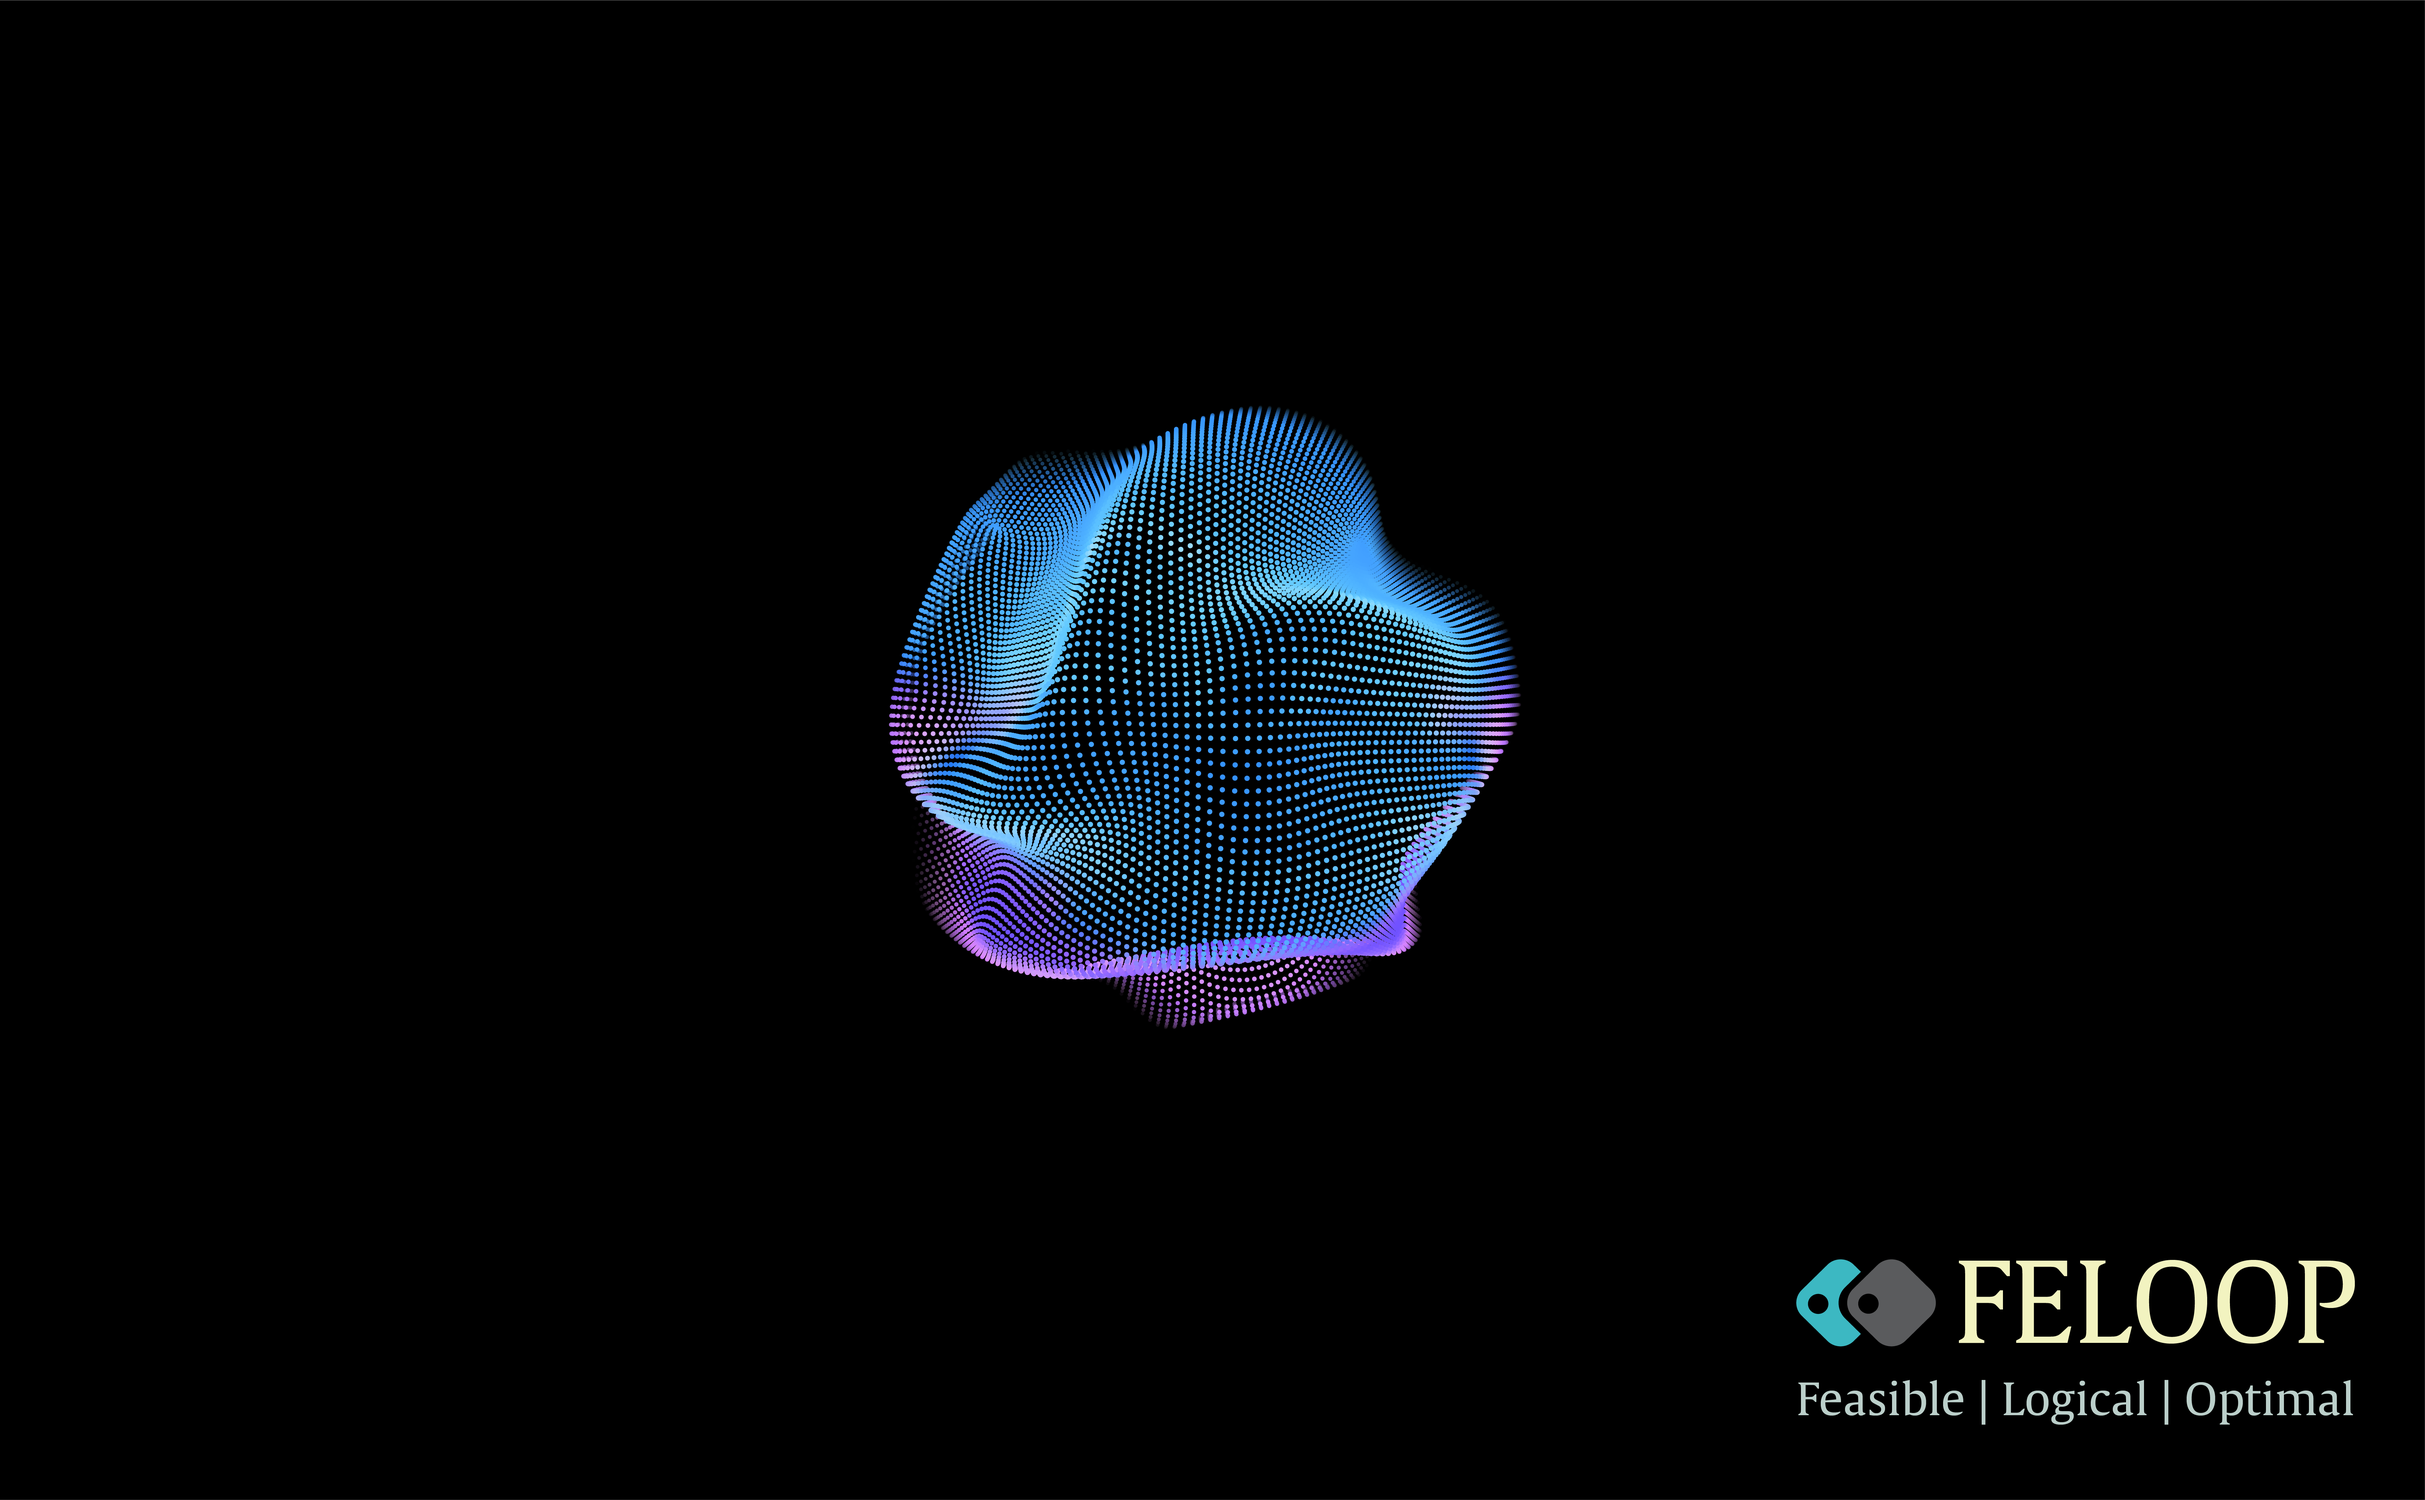
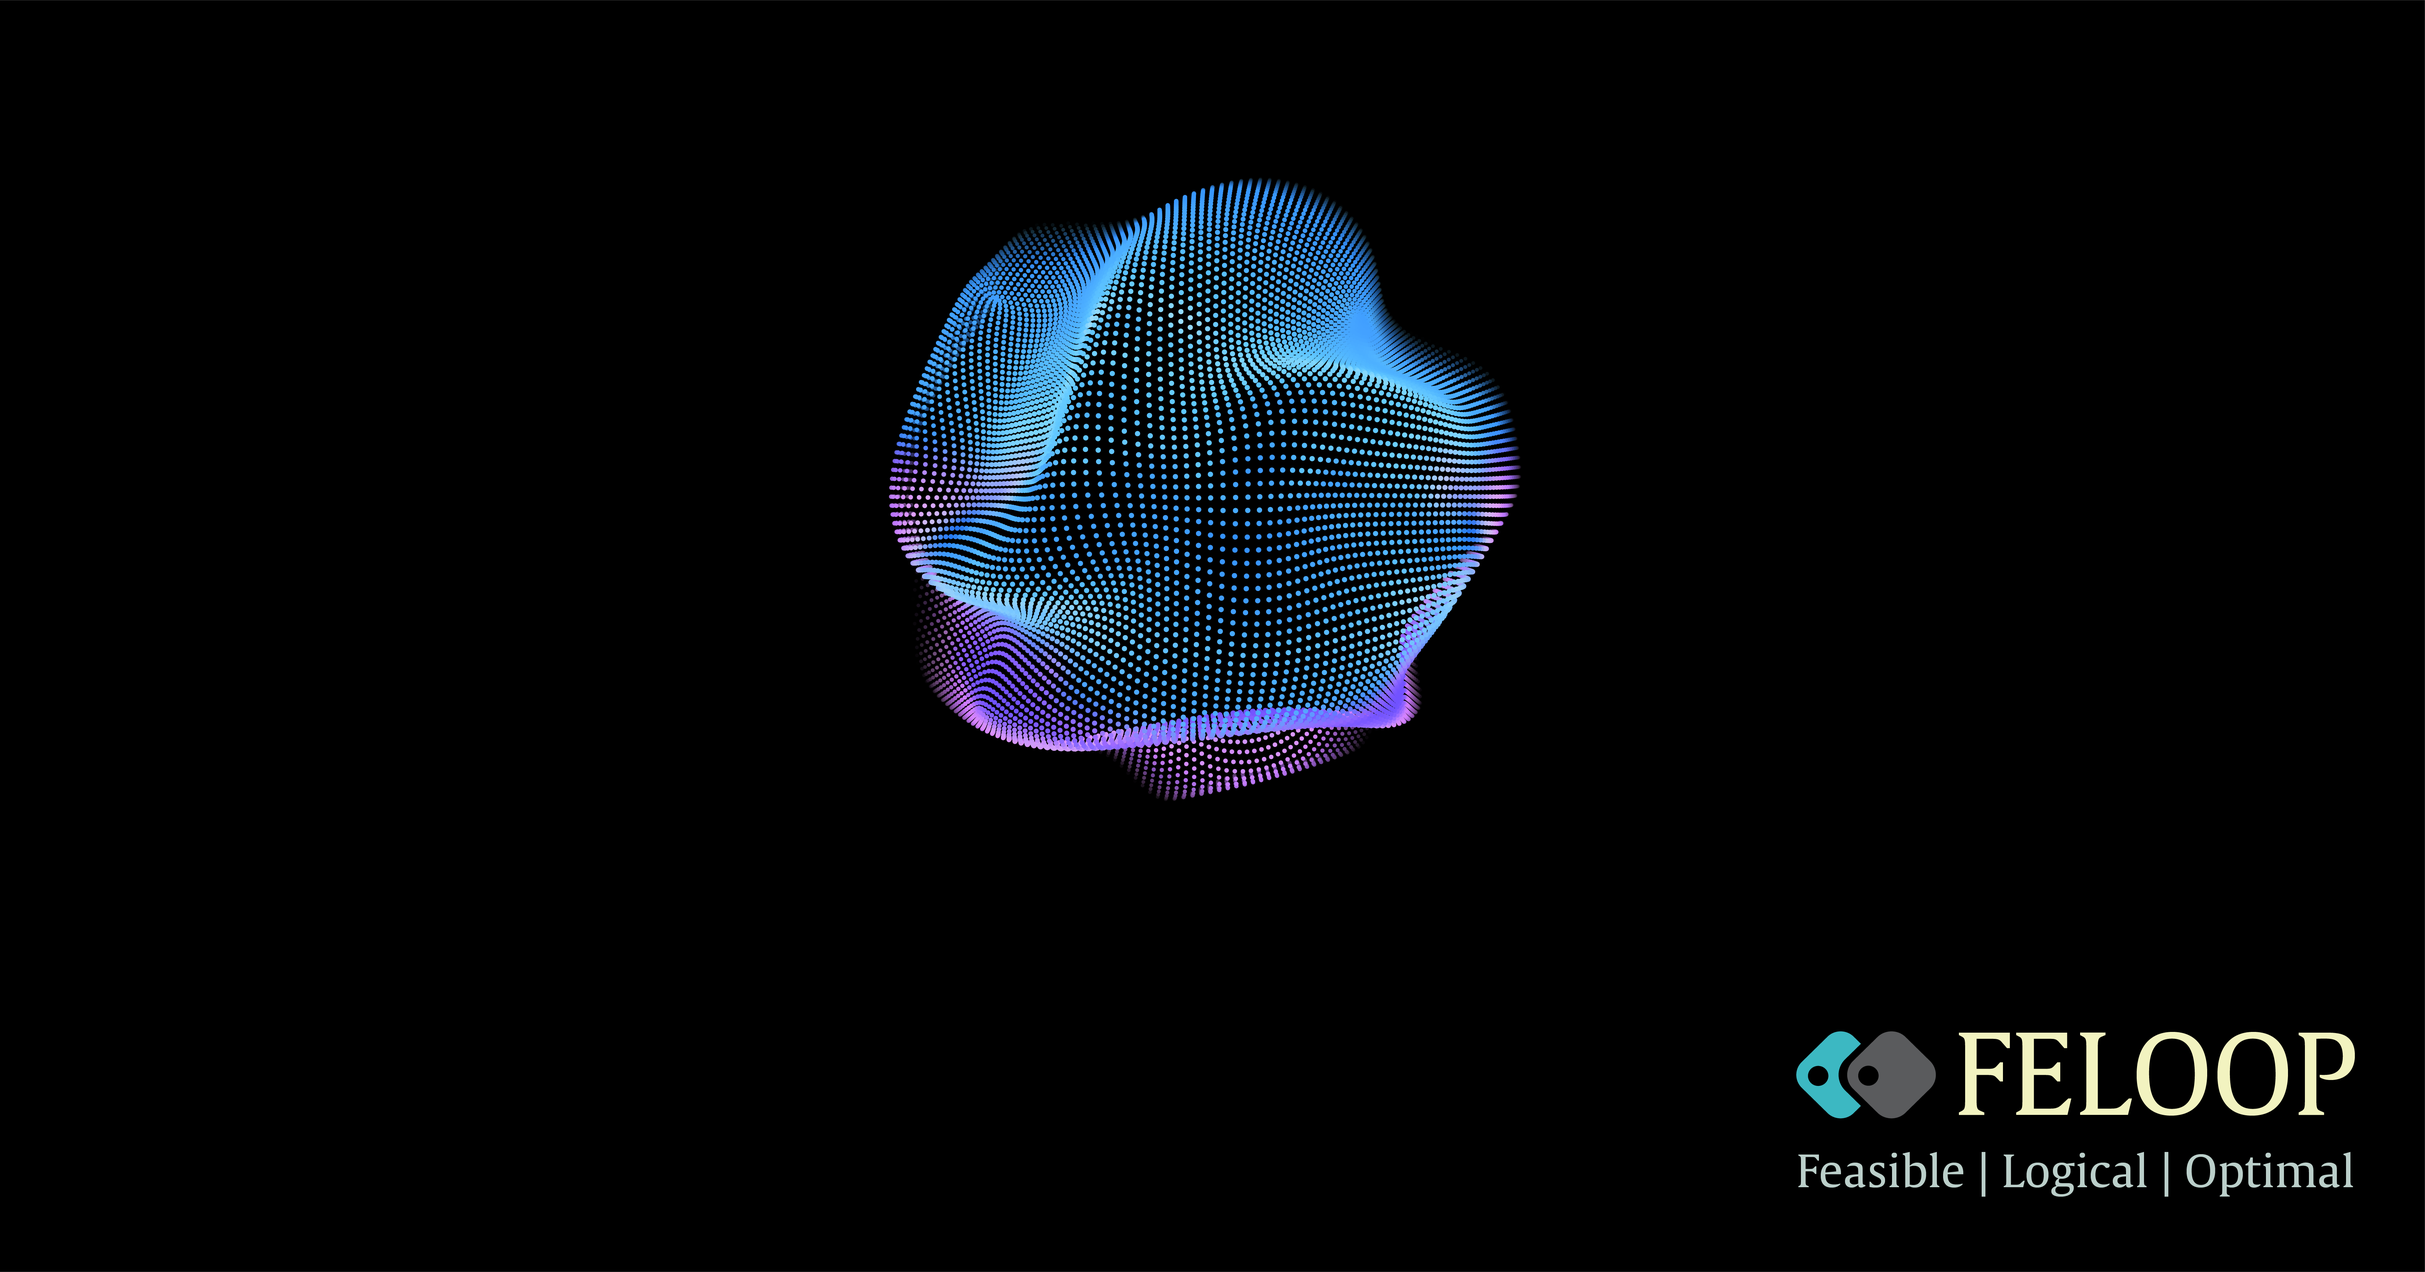
revised files.

Changed region(s): [[0.3432, 0.1247, 0.6241, 0.6857], [0.7177, 0.8104, 0.9673, 0.9662]]

diff --git a/overrides/home.html b/overrides/home.html
@@ -8,21 +8,43 @@
     @media screen and (min-width: 60em) { .md-sidebar--secondary { display: none; } }
     @media screen and (min-width: 76.25em) { .md-sidebar--primary { display: none; } }
     body { background-color: black; } /* Set the body background to black */
+    
+    /* Adjustments for positioning buttons at the bottom left of the image */
+    .mdx-hero__image {
+        position: relative; /* Ensure the container is positioned relatively */
+    }
+
+    .mdx-hero__image .md-button {
+        position: absolute; /* Position the buttons absolutely within the container */
+        bottom: 30px; /* Adjust this value to move the buttons up */
+        display: block; /* Stack the buttons vertically */
+        margin-bottom: 10px; /* Add space between the buttons */
+    }
+
+    .mdx-hero__image .md-button:first-child {
+        left: 10px; /* Adjust the left positioning for the first button */
+        bottom: 50px; /* Adjust the bottom positioning for the first button */
+    }
+
+    .mdx-hero__image .md-button:nth-child(2) {
+        left: 180px; /* Adjust the left positioning for the second button to stack horizontally */
+        bottom: 30px; /* Adjust the bottom positioning for the second button */
+    }
  </style>
  <section class="mdx-container">
     <div class="md-grid md-typeset">
       <div class="mdx-hero">
         <div class="mdx-hero__image">
-          <img src="assets/brand/feloop.png" alt="" width="1659" height="1200" draggable="false">
-        </div>
-        <div class="mdx-hero__content">
-          <p>Feasible solutions, logical decisions, optimal outcomes!</p>
+          <img src="assets/brand/feloop.png" alt="" width="100%" height="600" draggable="false">
           <a href="{{ page.next_page.url | url }}" title="{{ page.next_page.title | e }}" class="md-button md-button--primary">
             Quick start
           </a>
           <a href="{{ 'insiders/' | url }}" title="Material for MkDocs Insiders" class="md-button">
             Get Insiders
           </a>
+        </div>
+        <div class="mdx-hero__content">
+          <p></p>
         </div>
       </div>
     </div>

diff --git a/docs/index.md b/docs/index.md
@@ -1,5 +1,5 @@
 ---
-title: "FELOOP: Feasible | Logical | Optimal"
+title: "FELOOP"
 template: home.html
 ---
 
